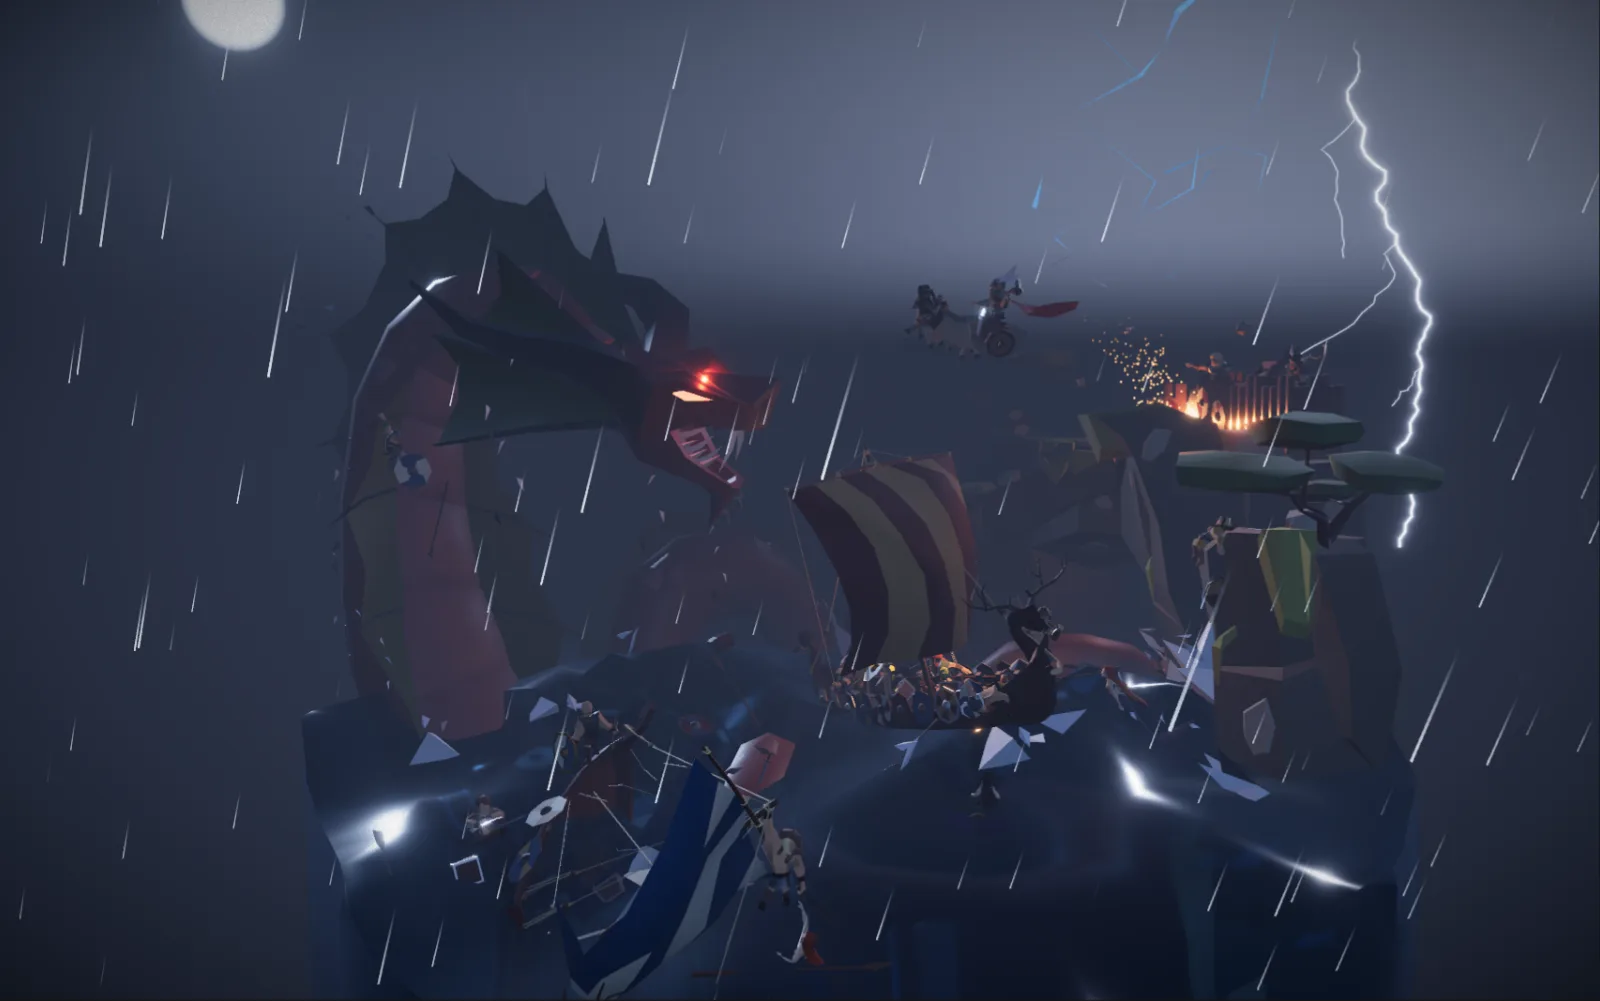
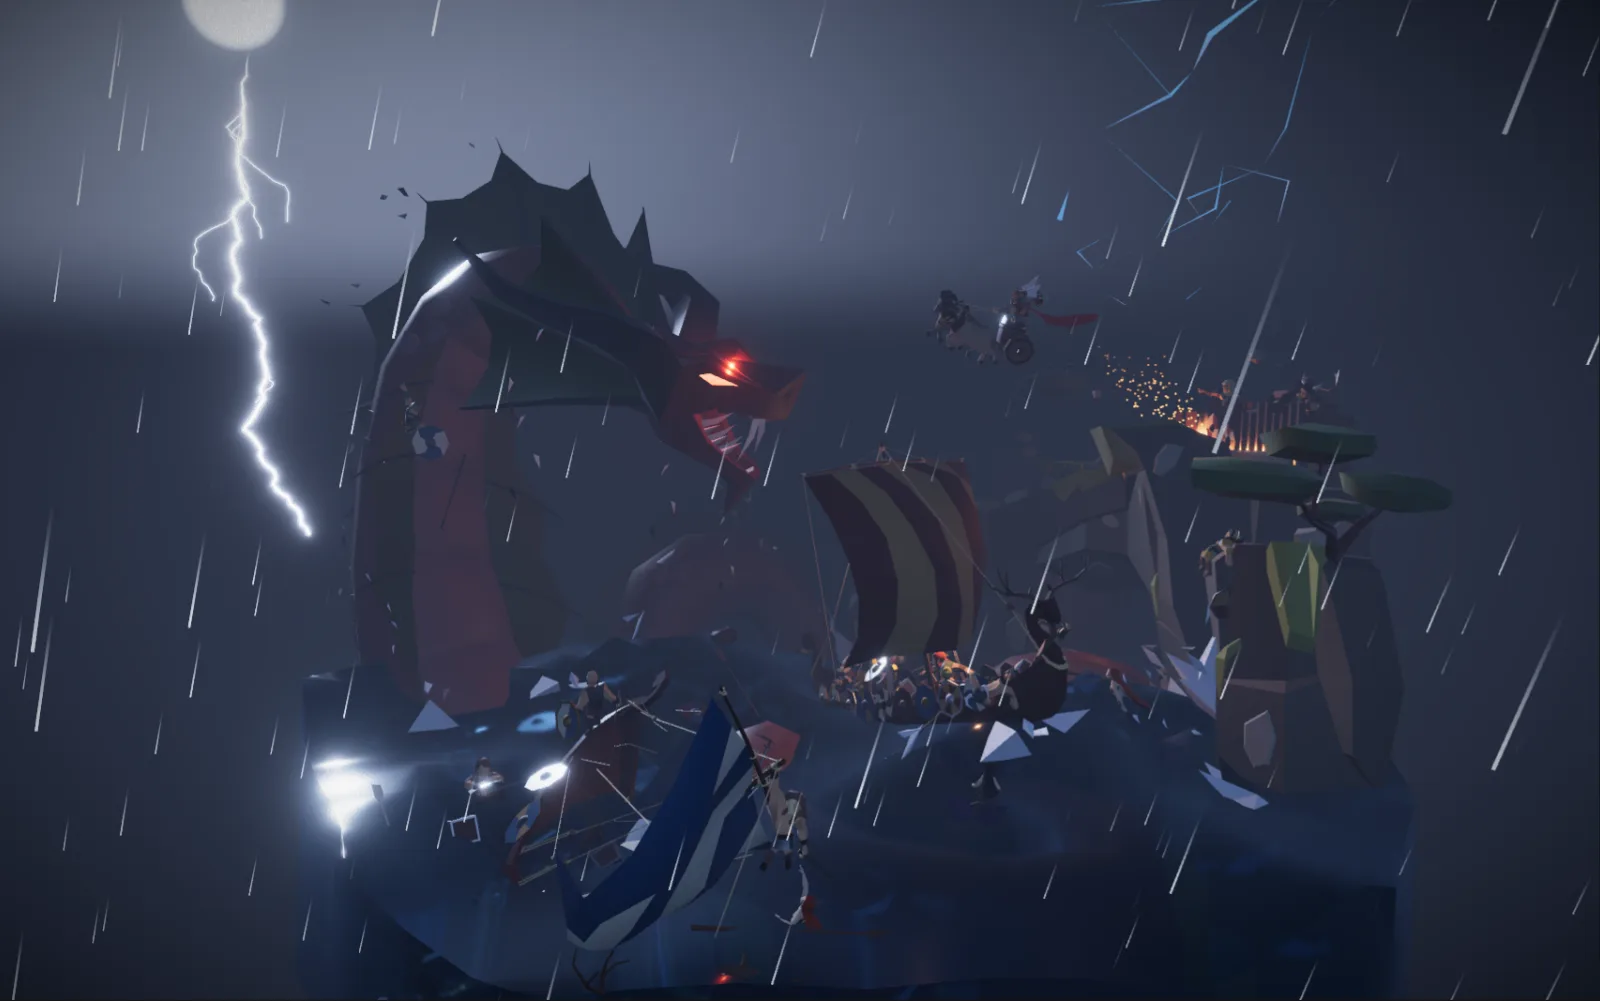
fix(midgard): review fixes
- Sky reads the camera in onBeforeRender (it trailed orbit/close by a frame).
- Leader cut per fragment, not per vertex (slivers at the bolt tip).
- A restrike keeps the fading flash's envelope (sky/fog/rain popped to 0).
- Drop the unused storm uTime, a no-op toneMapped on the eyes, the leftover
  pivot wrapper; compute the channel once per frame.

Claude-Session: https://claude.ai/code/session_0199nThDxCsoqgjgV43Db8uP

diff --git a/src/components/canvas/scenes/midgard-storm.ts b/src/components/canvas/scenes/midgard-storm.ts
@@ -1,4 +1,6 @@
 import * as THREE from "three";
+import { makeRng } from "@/lib/random";
+import { fullScreenTriangle } from "./full-screen-triangle";
 
 /**
  * The storm over Midgard: when lightning strikes, how bright it is over time,
@@ -48,20 +50,11 @@ export const channelAt = (s: Strike, age: number) =>
 	);
 
 /** Sky/fog/ambient brightness: one hump per strike. */
-export const skyAt = (s: Strike, age: number) =>
-	0.6 * pulse(age - LEADER, 0.03, 0.4) + 0.025 * channelAt(s, age);
+export const skyAt = (s: Strike, age: number, channel = channelAt(s, age)) =>
+	0.6 * pulse(age - LEADER, 0.03, 0.4) + 0.025 * channel;
 
 /** How far down the channel is drawn (the leader), 0–1. */
 export const revealAt = (age: number) => Math.min(1, Math.max(0, age / LEADER));
-
-/** Seeded (Park–Miller) random numbers, so every visit sees the same storm. */
-export function makeRandom(seed: number) {
-	let s = seed;
-	return () => {
-		s = (s * 16807) % 2147483647;
-		return s / 2147483647;
-	};
-}
 
 /** Seconds from one strike to the next (a restrike follows 20% of the time). */
 export function nextGap(random: () => number) {
@@ -212,8 +205,11 @@ const BOLT_VERTEX = /* glsl */ `
 
 	void main() {
 		vT = aT;
-		if (abs(aBolt - uBolt.w) > 0.5 || aT > uBolt.x) {
-			gl_Position = vec4(2.0, 2.0, 2.0, 1.0); // clipped
+		// Inactive bolts: every vertex moves off screen, so whole ribbons vanish.
+		// (The leader is cut per fragment instead: moving single vertices would
+		// stretch the triangles at the cut into slivers.)
+		if (abs(aBolt - uBolt.w) > 0.5) {
+			gl_Position = vec4(2.0, 2.0, 2.0, 1.0);
 			return;
 		}
 		float c = cos(uBoltPlace.z);
@@ -240,6 +236,7 @@ const BOLT_FRAGMENT = /* glsl */ `
 	varying float vT;
 
 	void main() {
+		if (vT > uBolt.x) discard; // not reached by the leader yet
 		float x = vSide;
 		float core = exp(-x * x / 0.015);
 		float halo = exp(-abs(x) * 3.0) * 0.35;
@@ -303,26 +300,12 @@ const SKY_FRAGMENT = /* glsl */ `
 	}
 `;
 
-/** A triangle covering the screen (clip space). */
-export function fullScreenTriangle() {
-	const geometry = new THREE.BufferGeometry();
-	geometry.setAttribute(
-		"position",
-		new THREE.BufferAttribute(
-			new Float32Array([-1, -1, 0, 3, -1, 0, -1, 3, 0]),
-			3,
-		),
-	);
-	return geometry;
-}
-
 // -- The storm ----------------------------------------------------------------
 
 export type StormUniforms = ReturnType<typeof makeUniforms>;
 
 function makeUniforms(horizon: THREE.Color) {
 	return {
-		uTime: new THREE.Uniform(0),
 		/** Bolt + point light: every stroke. */
 		uChannel: new THREE.Uniform(0),
 		/** Sky, fog, ambient: one hump per strike. */
@@ -345,10 +328,12 @@ export class Storm {
 	readonly uniforms: StormUniforms;
 	readonly bolts: THREE.Mesh;
 	readonly sky: THREE.Mesh;
-	private readonly random = makeRandom(2718);
+	private readonly random = makeRng(2718);
 	private time = 0;
 	private next: number;
 	private strike: (Strike & { start: number }) | null = null;
+	/** A strike still fading when a restrike begins (so the flash doesn't pop). */
+	private fading: (Strike & { start: number }) | null = null;
 	/** Poster capture: fire one strike early and hold it at its peak. */
 	private readonly hold: number | null;
 
@@ -358,7 +343,7 @@ export class Storm {
 		this.next = options.posterStrike ? 0.8 : 1.6;
 
 		this.bolts = new THREE.Mesh(
-			boltGeometry(makeRandom(1123)),
+			boltGeometry(makeRng(1123)),
 			new THREE.ShaderMaterial({
 				vertexShader: BOLT_VERTEX,
 				fragmentShader: BOLT_FRAGMENT,
@@ -383,32 +368,40 @@ export class Storm {
 		this.sky.frustumCulled = false;
 		// Last among the opaque objects: only pixels nothing else covered are shaded.
 		this.sky.renderOrder = 1;
+		// The camera as it is for this very render (controls and the close ease
+		// move it after the scene's own frame callback).
+		this.sky.onBeforeRender = (_renderer, _scene, camera) => {
+			this.uniforms.uProjInv.value.copy(camera.projectionMatrixInverse);
+			this.uniforms.uCamWorld.value.copy(camera.matrixWorld);
+		};
 	}
 
 	update(delta: number, camera: THREE.Camera) {
 		const u = this.uniforms;
-		u.uProjInv.value.copy(camera.projectionMatrixInverse);
-		u.uCamWorld.value.copy(camera.matrixWorld);
 		const held =
 			this.hold !== null &&
 			this.strike &&
 			this.time - this.strike.start >= this.hold;
 		if (!held) this.time += delta;
-		u.uTime.value = this.time;
 
 		if (this.time >= this.next) this.begin(camera);
 		const s = this.strike;
 		if (!s) return;
 		const age = this.time - s.start;
 		const channel = channelAt(s, age);
-		u.uChannel.value = channel;
-		u.uSky.value = skyAt(s, age);
-		u.uBolt.value.set(
-			revealAt(age),
-			channel,
-			channelAt(s, age) * (age < 0.2 ? 1 : 0),
-			s.bolt,
-		);
+		let sky = skyAt(s, age, channel);
+		let light = channel;
+		const f = this.fading;
+		if (f) {
+			const fadingAge = this.time - f.start;
+			const fadingChannel = channelAt(f, fadingAge);
+			sky = Math.max(sky, skyAt(f, fadingAge, fadingChannel));
+			light = Math.max(light, fadingChannel);
+			if (fadingAge > 3) this.fading = null;
+		}
+		u.uChannel.value = light;
+		u.uSky.value = sky;
+		u.uBolt.value.set(revealAt(age), channel, age < 0.2 ? channel : 0, s.bolt);
 		if (age > 3) {
 			this.strike = null;
 			u.uBolt.value.set(0, 0, 0, -1);
@@ -429,6 +422,7 @@ export class Storm {
 			Math.cos(azimuth) * distance,
 		);
 		const bolt = Math.floor(r() * BOLTS);
+		this.fading = this.strike;
 		this.strike = {
 			start: this.time,
 			strokes: makeStrokes(r),

diff --git a/src/components/canvas/scenes/midgard-scene.tsx b/src/components/canvas/scenes/midgard-scene.tsx
@@ -15,7 +15,7 @@ import {
 	Vignette,
 } from "@react-three/postprocessing";
 import { ToneMappingMode } from "postprocessing";
-import { type ReactNode, useLayoutEffect, useMemo, useRef } from "react";
+import { useLayoutEffect, useMemo, useRef } from "react";
 import * as THREE from "three";
 import { SwellBody } from "./midgard-sea";
 import { MOON_DIR, SKY_GLSL, Storm } from "./midgard-storm";
@@ -114,29 +114,6 @@ function softenWaterGlints(shader: THREE.WebGLProgramParametersWithUniforms) {
 	);
 }
 
-/** A part of the model that moves on its own, rotating about `pivot` (model space). */
-function Tossed({
-	pivot,
-	body,
-	children,
-}: {
-	pivot: [number, number, number];
-	body: SwellBody;
-	children: ReactNode;
-}) {
-	const toss = useRef<THREE.Group>(null);
-	useFrame((_, delta) => {
-		if (toss.current) body.update(toss.current, delta);
-	});
-	return (
-		<group position={pivot}>
-			<group ref={toss}>
-				<group position={[-pivot[0], -pivot[1], -pivot[2]]}>{children}</group>
-			</group>
-		</group>
-	);
-}
-
 const Part = ({ mesh }: { mesh: THREE.Mesh }) => (
 	<mesh geometry={mesh.geometry} material={mesh.material} />
 );
@@ -179,20 +156,15 @@ export default function MidgardScene() {
 			env.dispose();
 		};
 	}, [gl, scene, storm]);
-	const bodies = useMemo(
-		() => ({
-			// The floating island rocks slowly, as one piece.
-			diorama: new SwellBody(0, 0, 40, 26, 0.03, 0.5),
-		}),
-		[],
-	);
+	// The floating island rocks slowly on the swell, as one piece.
+	const swell = useMemo(() => new SwellBody(0, 0, 40, 26, 0.03, 0.5), []);
+	const island = useRef<THREE.Group>(null);
 
 	// Absolute values on the (globally cached) glTF materials: safe to repeat.
 	useMemo(() => {
 		const eyes = nodes.eyes.material as THREE.MeshStandardMaterial;
 		eyes.emissive.set("#ff4a1a");
 		eyes.emissiveIntensity = 8;
-		eyes.toneMapped = false;
 	}, [nodes]);
 
 	const hemi = useRef<THREE.HemisphereLight>(null);
@@ -212,6 +184,8 @@ export default function MidgardScene() {
 		}
 		fogColor.copy(baseFog).lerp(uFlashColor.value, uSky.value * 0.1);
 		if (scene.fog) scene.fog.color = fogColor;
+
+		if (island.current) swell.update(island.current, delta);
 
 		if (spin.current && !poster) {
 			spinTime.current += delta;
@@ -265,7 +239,7 @@ export default function MidgardScene() {
 			<group ref={spin}>
 				<group position={[-FOCUS.x, -FOCUS.y, -FOCUS.z]}>
 					{/* The floating island: water block, rock, ship and fort rock as one. */}
-					<Tossed pivot={[0, 0, 0]} body={bodies.diorama}>
+					<group ref={island}>
 						{/* The example's glass water, tinted for night: you see the serpent's
 					    coils and the keels through it. */}
 						<mesh geometry={nodes.water.geometry}>
@@ -316,7 +290,7 @@ export default function MidgardScene() {
 						/>
 						<Part mesh={nodes.boat1} />
 						<Part mesh={nodes.boat2} />
-					</Tossed>
+					</group>
 				</group>
 			</group>
 

diff --git a/src/components/canvas/scenes/midgard-sea.ts b/src/components/canvas/scenes/midgard-sea.ts
@@ -31,8 +31,8 @@ export function swellHeight(x: number, z: number, t: number) {
 
 /**
  * Rides the swell: heave is the mean height under the hull, pitch and roll
- * the slope across its length and beam. A long hull averages the waves, so it
- * moves slowly and heavily; a small boat bobs. Smoothed and clamped.
+ * the slope across its length and beam. A long span averages the waves, so it
+ * moves slowly and heavily. Smoothed and clamped.
  */
 export class SwellBody {
 	private time = 0;
